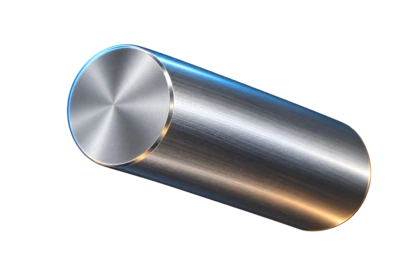
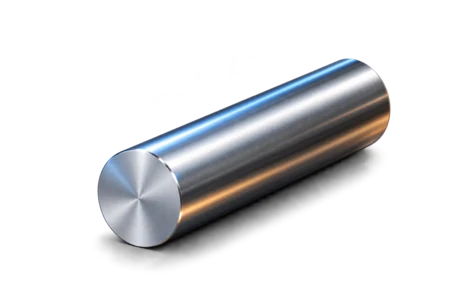
Use approved steel rod artwork in result card

diff --git a/sw.js b/sw.js
@@ -1,6 +1,6 @@
 'use strict';
 
-const VERSION='2.7.2';
+const VERSION='2.7.3';
 const CACHE=`cutcalc-cnc-${VERSION}`;
 const APP_SHELL=[
   './','./index.html','./styles.css','./machine-config.js','./calc-core.js','./app.js','./manifest.webmanifest',
